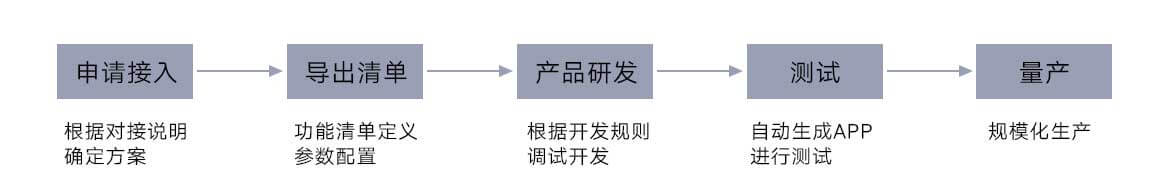
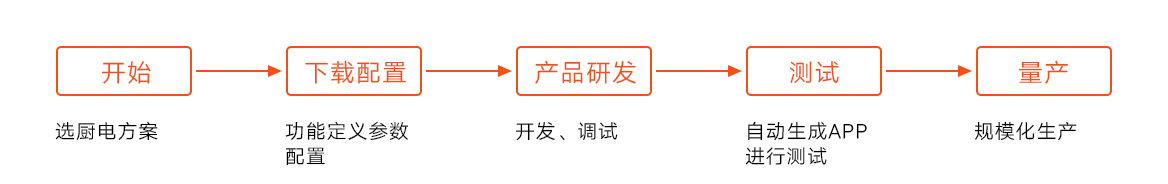
1、开发者文档修改，整体界面调整，开发指南图片替换，默认图标替换，产品添加后页面跳转到编辑基本信息页，编辑参数信息页面调整 2、导出数据加上key、secret、model

diff --git a/static/ng/product/edit/edit.html b/static/ng/product/edit/edit.html
@@ -47,14 +47,14 @@
 								<!-- PAGE CONTENT BEGINS -->
 								<form method="post" class="form-horizontal" role="form">
 									<div class="form-group">
-										<label class="col-sm-3 col-xs-3 control-label no-padding-right" for="Stream_ID" style="text-align:right"> Stream_ID </label>
+										<label class="col-sm-3 col-xs-3 control-label no-padding-right" for="Stream_ID" style="text-align:right"> *Stream_ID </label>
 										<div class="col-sm-9 col-xs-9">
 											<input ng-disabled='{[{ disabled }]}' type="text" id="Stream_ID" ng-model="argueFormData.csrfmiddlewaretoken" placeholder="Stream_ID由字母、数字或下划线组成，不能重复" class="col-xs-10 col-sm-5" onblur="checkID()"/>
 											<br><br><div id="checkID" style="color:red;display:none"></div>
 										</div>
 									</div>
 									<div class="form-group">
-										<label class="col-sm-3 col-xs-3 control-label no-padding-right" for="name" style="text-align:right"> 参数名称 </label>
+										<label class="col-sm-3 col-xs-3 control-label no-padding-right" for="name" style="text-align:right"> *参数名称 </label>
 										<div class="col-sm-9 col-xs-9">
 											<input ng-disabled='{[{ disabled }]}' type="text" id="name" ng-model="argueFormData.Stream_ID" placeholder="Stream_ID的中文名称，显示在产品详情界面" class="col-xs-10 col-sm-5" onblur="checkName()"/>
 											<br><br><div id="checkName" style="color:red;display:none"></div>
@@ -65,7 +65,7 @@
 										<label class="col-sm-3 col-xs-3 control-label no-padding-right" for="corpName" style="text-align:right"> 单位名称 </label>
 										<div class="col-sm-9 col-xs-9">
 											<input ng-disabled='{[{ disabled }]}' type="text" id="corpName" placeholder="请输入参数的单位名称，如：摄氏度" class="col-xs-10 col-sm-5" />
-											<label style="margin-top:6px"> &nbsp;&nbsp;可选 </label>
+
 										</div>
 									</div>
 
@@ -73,11 +73,10 @@
 										<label class="col-sm-3 col-xs-3 control-label no-padding-right" for="corpMark" style="text-align:right"> 单位符号 </label>
 										<div class="col-sm-9 col-xs-9">
 											<input ng-disabled='{[{ disabled }]}' type="text" id="corpMark" placeholder="请输入参数的单位名称，如：℃" class="col-xs-10 col-sm-5"/>
-											<label style="margin-top:6px"> &nbsp;&nbsp;可选 </label>
 										</div>
 									</div>
                                     <div class="form-group">
-										<label class="col-sm-3 col-xs-3 control-label no-padding-right" for="mxsLength" style="text-align:right"> 长度 </label>
+										<label class="col-sm-3 col-xs-3 control-label no-padding-right" for="mxsLength" style="text-align:right"> *长度 </label>
 										<div class="col-sm-9 col-xs-9">
 											<input ng-disabled='{[{ disabled }]}' type="text" id="mxsLength" ng-model="argueFormData.mxsLength" placeholder="请输入参数位数，如：8" class="col-xs-10 col-sm-5" onblur="checkLength()"/>
 											<br><br><div id="checkLength" style="color:red;display:none"></div>
@@ -85,7 +84,7 @@
 									</div>
 
 									<div class="form-group">
-										<label class="col-sm-3 col-xs-3 control-label no-padding-right" for="paramType" style="text-align:right"> 参数类型 <span class="help-button" data-rel="popover" data-trigger="hover" data-placement="bottom" data-content="请正确填写您的Stream_ID的类型，如选择int/float型，还需填写参数的最大/最小值。" title="">?</span> </label>
+										<label class="col-sm-3 col-xs-3 control-label no-padding-right" for="paramType" style="text-align:right"> *参数类型 <span class="help-button" data-rel="popover" data-trigger="hover" data-placement="bottom" data-content="请正确填写您的Stream_ID的类型，如选择int/float型，还需填写参数的最大/最小值。" title="">?</span> </label>
 										<div class="col-sm-9 col-xs-9">
 												<div class="radio">
 														<label>
@@ -284,7 +283,6 @@
 					group+='	</div>';
 					group+='	<div class="col-sm-2 col-xs-2" style="padding-top:6px">';
 					group+='		<a ng-hide="{[{ visible }]}" href="#" onclick="del(this);return false" class="addButton"><i class="fa fa-times-circle bigger-150"></i></a>';
-					group+='		<label ng-hide="{[{ visible }]}"> &nbsp;&nbsp;可选 </label>';
 					group+='	</div>';
 					group+='</div>';
 					$("#addGroup").before(group);
@@ -334,7 +332,6 @@
 				group+='	</div>';
 				group+='	<div class="col-sm-2 col-xs-2" style="padding-top:6px">';
 				group+='		<a href="#" onclick="del(this);return false" class="addButton"><i class="fa fa-times-circle bigger-150"></i></a>';
-				group+='		<label> &nbsp;&nbsp;可选 </label>';
 				group+='	</div>';
 				group+='</div>';
 				$("#addGroup").before(group);

diff --git a/templates/product/add.html b/templates/product/add.html
@@ -86,7 +86,7 @@
                                 <dd>
                                     <input type="hidden" name="brand_id" id="brandId">
                                     <input type="text" name="brand_name" id="brandNameText" maxlength="18"
-                                           class="w280 form-control" placeholder="暂无品牌" onclick="showBrandList('brandAddUl');" onkeyup="showBrandList('brandAddUl', this.value)">
+                                           class="w280 form-control" placeholder="品牌名称" onclick="showBrandList('brandAddUl');" onkeyup="showBrandList('brandAddUl', this.value)">
                                     <span class="tips-error hiden" id="brandNameTips"></span>
                                     <ul id="brandAddUl" class="vague" onmouseover="this.style.display='';" onmouseout="this.style.display='none';" style="display: none;"></ul>
                                 </dd>
@@ -120,10 +120,12 @@
                             <dl class="fmInfo">
                                 <dt>指令类型</dt>
                                 <dd>
-                                    <select name="product_command" id="product_command" ng-disabled="{[{ disabled }]}"  class="sel2"  style="width:90px;">
+                                    <select name="product_command" onclick="showHide()" id="product_command" ng-disabled="{[{ disabled }]}"  class="sel2"  style="width:90px;">
                                         <option value="是" selected="selected">全指令</option>
                                         <option value="否">单指令</option>
                                     </select>
+                                    <label id="mylabel1"  style="display: none;left: 20px;position: relative;">&nbsp;&nbsp;支持单个原子功能独立控制</label>
+                                    <label id="mylabel2"  style="left: 20px;position: relative;"> &nbsp;&nbsp;每个数据帧都要传输所有原子功能状态</label>
                                 </dd>
                             </dl>
                             <h4 class="infoTit02 mt30">
@@ -210,12 +212,25 @@
 
         $liObj.parent().hide();
     }
+    function showHide() {
+            var a=$("#product_command").val();
+            console.log(a);
+            if (a=='是'){
+                $("#mylabel1").hide();
+                $("#mylabel2").show();
+            }
+            else {
+                $("#mylabel2").hide();
+                $("#mylabel1").show();
+            }
+    }
     $(document).ready(function () {
         $('#go').on('click', function (e) {
-
             if ($("#productNameText").val() != "") {
+                console.log("--------------------");
                 $("form[name=productAddForm]").submit();
                 console.log("submit");
+
             } else {
                 alert("产品名称不能为空");
             }

diff --git a/templates/product/main.html b/templates/product/main.html
@@ -136,7 +136,7 @@
                 <div class="box1">
                     <!-- 左侧菜单 begin -->
                     <div class="menuBox">
-                        <h3>产品信息</h3>
+
                         <ul>
                             <li id="infoMenu" class="jsNavItem" data-id="infoMenu" ng-click="nav.selected('infoMenu')">
                                 <a href="#/info">
@@ -146,7 +146,7 @@
                         </ul>
                     </div>
                     <div class="menuBox">
-                        <h3>产品参数</h3>
+
                         <ul>
                             <li id="argueMenu" class="jsNavItem" data-id="argueMenu" ng-click="nav.selected('argueMenu')">
                                 <a href="#/argue">
@@ -156,7 +156,6 @@
                         </ul>
                     </div>
                     <div class="menuBox">
-                        <h3>产品调试</h3>
                         <ul>
                             <li id="productTest" class="jsNavItem" data-id="productTest" ng-click="nav.selected('productTest')">
                                 <a href="https://oven.53iq.com/static/html/control.html?d=ABCDEFABCDEF" target="_blank">
@@ -188,7 +187,7 @@
                         </ul>
                     </div>
                     <div class="menuBox">
-                        <h3>开发者</h3>
+
                         <ul>
                             <li id="devMenu" class="jsNavItem" data-id="devMenu" ng-click="nav.selected('devMenu')">
                                 <a href="#/dev">

diff --git a/templates/home/zny.html b/templates/home/zny.html
@@ -54,8 +54,8 @@
 <body>
 <div class="box2 relative">
     <div class="hbox">
-        53iq厨房智能平台致力厨房智能共享开放，帮助厨电品牌厂商、电控板厂商快速出品令消费者喜爱的厨电。给厨电厂商提供专业可靠的厨电智能化方案，为电控自助对接智能提供快捷丰富的平台资源。
-平台提供Wi-Fi和彩屏智能方案接入厨电。
+        53iq厨房智能平台致力厨房智能共享开放，帮助厨电品牌厂商、电控板厂商快速出品令消费者喜爱的厨电。<br><br>
+        给厨电厂商提供专业可靠的厨电智能化方案，为电控自助对接智能提供快捷丰富的平台资源。平台提供Wi-Fi和彩屏智能方案接入厨电。
 
 
     </div>

diff --git a/templates/home/guide.html b/templates/home/guide.html
@@ -33,7 +33,7 @@
     </style>
 {% endblock %}
 {% block menu %}
-    {% create_menu 2 user.developer.developer_id %}
+    {% create_menu 3 user.developer.developer_id %}
 
 {% endblock %}
 {% block right %}

diff --git a/static/ng/product/info/main.html b/static/ng/product/info/main.html
@@ -92,4 +92,5 @@
         </div>
     </div>
 </div>
+
 <script src="/static/js/common/ajaxfileupload.min.js"></script>

diff --git a/app/product/views.py b/app/product/views.py
@@ -142,10 +142,11 @@ def product_add(request):
                 ret["msg"] = "invalid app_id"
                 ret["message"] = "无效的APP_ID"
                 return HttpResponse(json.dumps(ret, separators=(",", ':')))
-            app_name = create_app(developer_id, app_name, app_model, app_category, app_category_detail, app_command,
+            app_id = create_app(developer_id, app_name, app_model, app_category, app_category_detail, app_command,
                                   device_conf, app_factory_id)
-            if app_name:
-                return HttpResponseRedirect(reverse("product/list"))
+            if app_id:
+                url = '/product/main/?ID=' + str(app_id) + '#/info'
+                return HttpResponseRedirect(url)
             else:
                 ret["code"] = 100003
                 ret["msg"] = "invalid app_id"
@@ -214,8 +215,12 @@ def product_main(request):
         # 根据ID获取到数据库中的设备配置信息
         app_id = request.GET.get("ID", "")
         app = App.objects.get(app_id=app_id)
-        opera_data = json.loads(app.device_conf)
-        opera_data.sort(key = lambda x: int(x.get("id")))
+        opera_data = []
+        try :
+            opera_data = json.loads(app.device_conf)
+            opera_data.sort(key = lambda x: int(x.get("id")))
+        except Exception as e:
+            print(e)
         # 接收页面请求信息
         post_data = request.POST.get("name")
         if post_data == 'list':
@@ -225,7 +230,7 @@ def product_main(request):
             # 返回编辑页面信息
             edit_id = request.POST.get("id")
             for i in range(len(opera_data)):
-                if opera_data[i].get("id", "不存在id") == edit_id:
+                if str(opera_data[i]['id']) == edit_id:
                     return JsonResponse({'data': opera_data[i]})
         elif post_data == 'del':
             # 删除信息

diff --git a/util/export_excel.py b/util/export_excel.py
@@ -12,7 +12,7 @@ from model.center.app import App
 
 def write_excel(items, filename):
     headers = {'id': '功能序号', 'name': "产品功能", 'remarks': '备注', 'values': '值域', 'Stream_ID': '功能属性', 'mxsLength': '长度(bit)', 'command': '全指令','permission':'权限'}
-    items.insert(0, headers)
+    items['function'].insert(0, headers)
     header = ['id', 'name', 'remarks', 'values', 'Stream_ID', 'mxsLength', 'command','permission']
     excel_name = write_data(items, header, filename)
     return excel_name
@@ -68,12 +68,19 @@ def date_deal(id):
         export_name.append(app.app_name)
         export_name.append(temp)
 
-        temp = []
-        e_data = []
+        temp1_data = []
+        temp2_data = []
+        e_data = {}
         j_data = {}
+        key = app.app_appid
+        len_key = len(key) - 8
+        e_data['secret'] = app.app_appsecret
+        e_data['key'] = key[len_key:]
+        e_data['model'] = app.app_model
         j_data['name'] = app.app_name
         j_data['model'] = app.app_model
-        j_data['key'] = "0053iq11"
+        j_data['key'] = key[len_key:]
+        j_data['secret'] = app.app_appsecret
         config_data = json.loads(app.device_conf)
         for data in config_data:
             # 写入Excel的数据
@@ -107,9 +114,10 @@ def date_deal(id):
                 i['permission'] = '477'
                 j['permission'] = "读"
             if str(data['state']) == '1':
-                temp.append(i)
-                e_data.append(j)
-        j_data['function'] = temp
+                temp1_data.append(i)
+                temp2_data.append(j)
+        e_data['function'] = temp2_data
+        j_data['function'] = temp1_data
         res = write_zip(e_data, j_data, export_name)
         return res
     except Exception as e:

diff --git a/util/excelutil.py b/util/excelutil.py
@@ -46,24 +46,24 @@ def write_data(data, header, filename):
     table.write(4, 1, '品牌')
     table.write(4, 2, '纳帕集成灶')
     table.write(5, 1, '型号')
-    table.write(5, 2, 'NP-01')
+    table.write(5, 2, data['model'])
     table.write_merge(6, 9, 0, 0, '授权信息', set_style('Arial', 220, True))
     table.write_merge(6, 7, 1, 1, '沙箱环境')
     table.write_merge(8, 9, 1, 1, '生产环境')
     table.write(6, 2, 'key')
-    table.write(6, 3, 'qwertyui111')
+    table.write(6, 3, data['key'])
     table.write(7, 2, 'secret')
-    table.write(7, 3, 'qwasd')
+    table.write(7, 3, data['secret'])
     table.write(8, 2, 'key')
-    table.write(8, 3, 'qwertyui111')
+    table.write(8, 3, data['key'])
     table.write(9, 2, 'secret')
-    table.write(9, 3, 'qwasd')
+    table.write(9, 3, data['secret'])
     # l表示行
     l = 10
     n = len(header)
-    for index, line in enumerate(data):
+    for index, line in enumerate(data['function']):
         for i in range(n):
-            table.col(index).width=256*20
+            table.col(index).width=256*30
             if index == 0:
                 table.write(l, i, line[header[i]], set_style('Arial', 220, True))
             else:

diff --git a/common/app_helper.py b/common/app_helper.py
@@ -62,7 +62,7 @@ def create_app(developer_id, app_name, app_model, app_category, app_category_det
                 del e
         # 同步到 RESTFul API
         create_sandbox_api_app(app_app_id, app_app_secret)
-        return app_name
+        return app.app_id
     except Exception as e:
         logging.getLogger("").error(e)
         return ""
